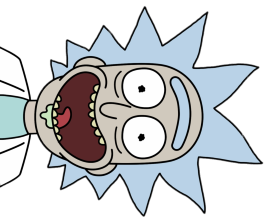
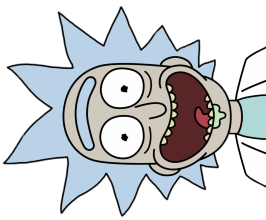
Log DOM Exception error on Chrome, on Firefox there is no error

diff --git a/src/components/DrumPad.js b/src/components/DrumPad.js
@@ -33,18 +33,20 @@ export default function DrumPad({
     if (disabled) return;
 
     const audio = audioEl.current;
+    if (audio === null) return;
 
-    let isPlaying = audio.currentTime > 0 && !audio.paused && !audio.ended 
-    && audio.readyState > 2;
-    
-    if (!isPlaying) {
-      audio.currentTime = 0;
-      audio.play();
+    audio.currentTime = 0;
+    const playPromise = audio.play();
+
+    // Catch DOM Exception error when running tests in Chrome
+    if (playPromise !== undefined) {
+      playPromise
+      .then(_ => {})
+      .catch(error => {
+        console.log(error);
+      })
     }
-    
   };
-
-  
 
   // Add/remove event listeners
   useEffect(() => {

diff --git a/src/style.scss b/src/style.scss
@@ -4,6 +4,7 @@
   align-items: center;
   justify-content: center;
   position: relative;
+  overflow: hidden;
 }
 
 .DrumMachine {
@@ -48,7 +49,7 @@
 .img-rick {
   position: absolute;
   width: 200px;
-  left: -200px;
+  right: -200px;
   top: 5%;
   transition: transform 1s;
   z-index: 10;
@@ -61,7 +62,7 @@
   }
 }
 .show-rick {
-  transform: translateX(200px);
+  transform: translateX(-200px);
 }
 
 
